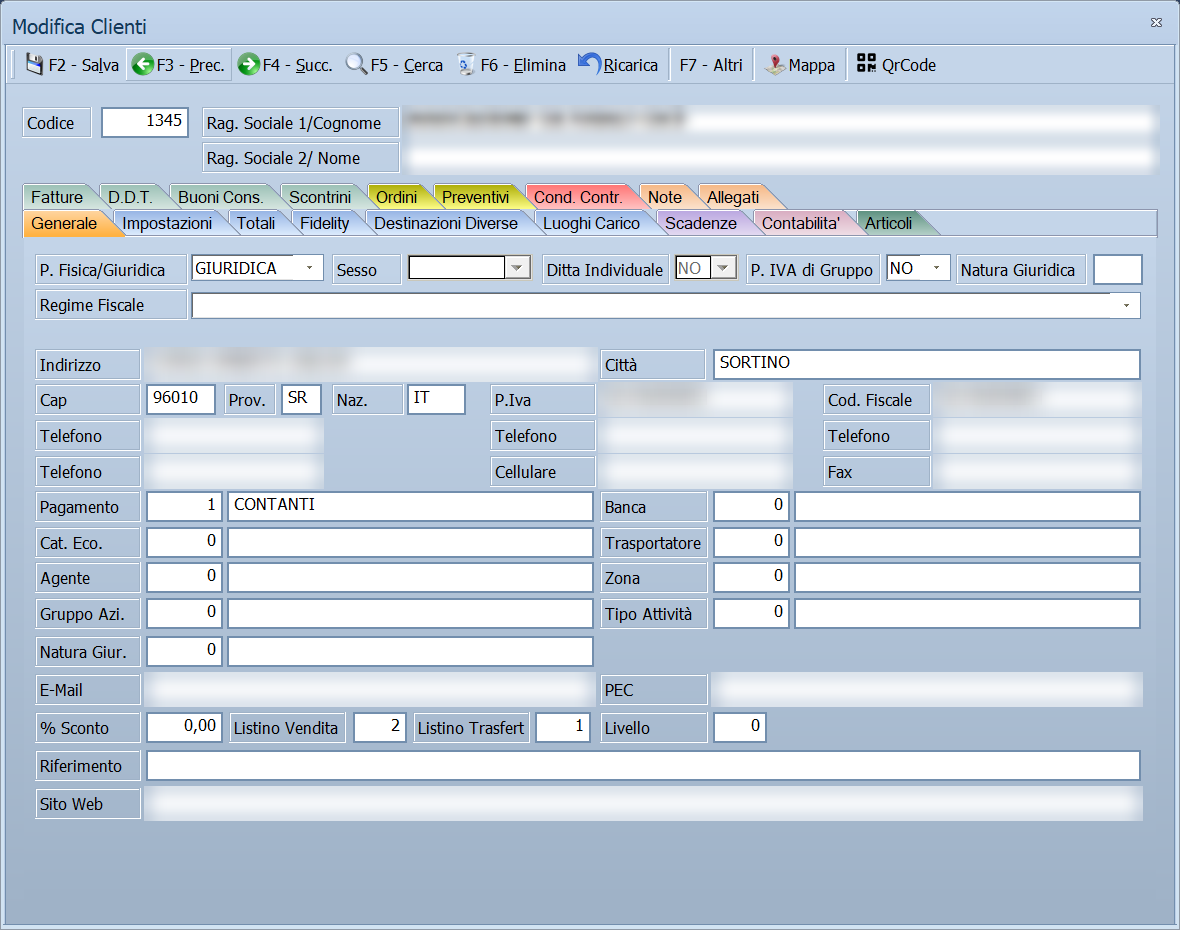
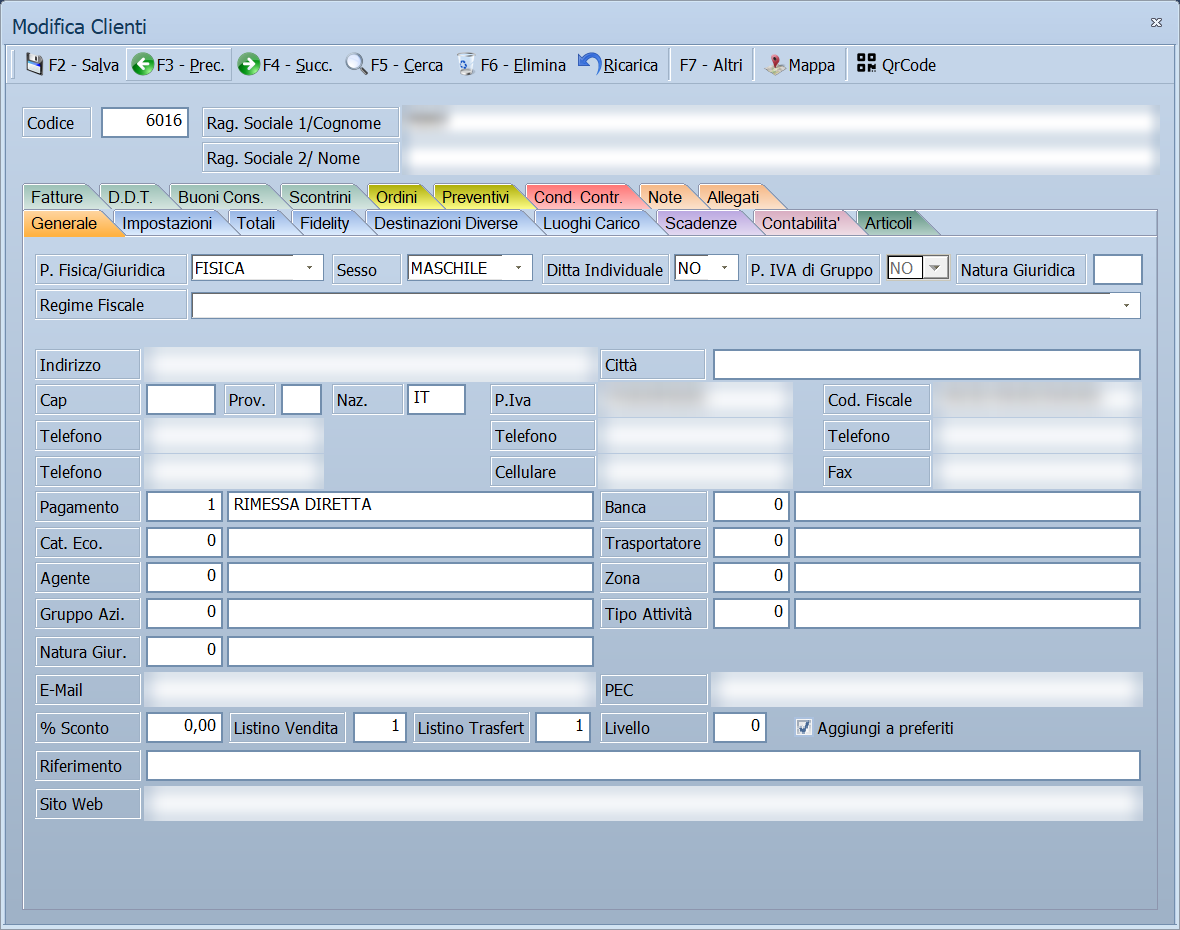
Anagrafica clienti: casella «Aggiungi a preferiti» (B09.00)
- scheda Generale: riga del campo, a cosa serve per FacileSmart e Facile Mobile
- Novità B09.00, Miglioramenti: la casella nuova
- schermata rifatta con la casella; striscia delle schede presa dalla
  schermata standard precedente (la Debug aveva FACILECRM acceso)

diff --git a/docs/moduli/anagrafiche/anagrafica-clienti.md b/docs/moduli/anagrafiche/anagrafica-clienti.md
@@ -151,6 +151,7 @@ Il programma richiede sempre e comunque **Codice** e **Rag. Sociale 1/Cognome**.
 | Listino Vendita | | Listino applicato nei documenti di vendita. | Da 1 a 3 |
 | Listino Trasfert | | Listino applicato ai trasferimenti. | Da 1 a 3 |
 | Livello | | Il gruppo di clienti a cui questo appartiene per le promozioni: una promozione riservata a un livello si applica solo ai clienti che hanno **quel** numero. Nella versione Studio il campo non compare. | da 0 a 100; `0` = nessun livello |
+| Aggiungi a preferiti | | Mette il cliente fra i preferiti delle app FacileSmart e Facile Mobile, che durante la vendita permettono di sceglierlo velocemente fra i soli clienti preferiti. In Facile non cambia nulla. Su Facile Mobile la scelta arriva con il successivo **Genera Dati per Facile Mobile**. | Casella |
 | Riferimento | | Persona o ufficio da contattare presso il cliente. | Fino a 50 caratteri |
 | Sito Web | | Sito internet del cliente. | Fino a 80 caratteri, in minuscolo |
 

diff --git a/docs/novita/index.md b/docs/novita/index.md
@@ -88,6 +88,10 @@ DDT emessi senza nota del fornitore.
 - [Depositi](../moduli/magazzino/depositi.md): **Cod. P.Vendita** della
   versione Megastore sta ora sopra le caselle **Escludi**, accanto al sito
   NSIS.
+- [Anagrafica clienti](../moduli/anagrafiche/anagrafica-clienti.md): la nuova
+  casella **Aggiungi a preferiti** nella scheda **Generale** mette il cliente
+  fra i preferiti delle app FacileSmart e Facile Mobile, per sceglierlo
+  velocemente durante la vendita.
 
 ### Correzioni
 
